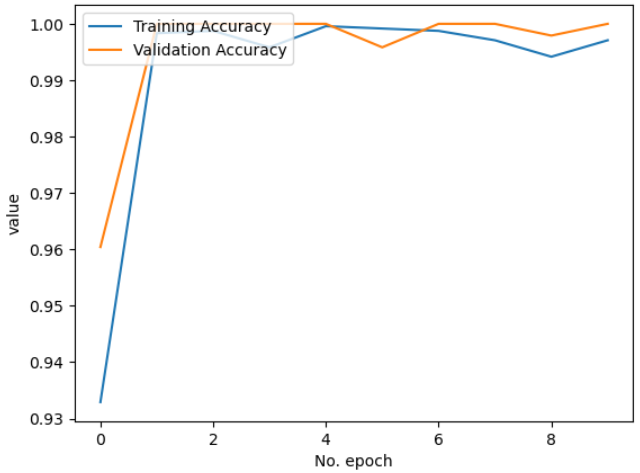
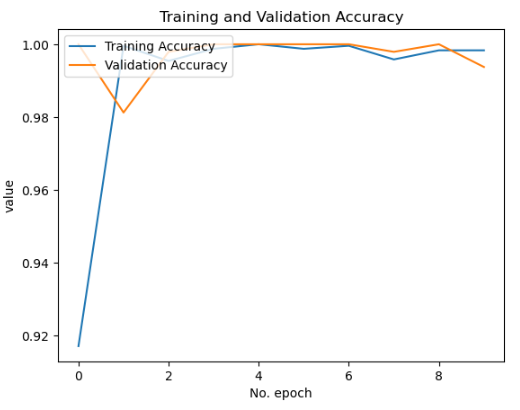
CUKUP UNTUK MALEM INI CAPEK

Changed region(s): [[0.0, 0.0, 1.0, 0.9951]]

diff --git a/Buku/bab/4-pengujian-analisis.tex b/Buku/bab/4-pengujian-analisis.tex
@@ -2,39 +2,41 @@
 
 % Ubah bagian-bagian berikut dengan isi dari pengujian dan analisis
 
-Pada bab ini dipaparkan hasil dan analisa dari pelaksanaan tiap tahap pada metodologi, skenario pengujian dan evaluasi pengujiannya. Pengujian dan evaluasi dilakukan guna mengetahui tingkat kesalahan dalam metodologi serta ananlisis untuk mencapai kesimpulan.Tahapan scenario pengujian meliputi hal berikut :
+Pada bab ini dipaparkan hasil dan analisa dari pelaksanaan skenario tahap  metodologi, skenario pengujian dan evaluasi pengujiannya. Pengujian dan evaluasi dilakukan guna mengetahui tingkat kesalahan dalam metodologi serta ananlisis untuk mencapai kesimpulan. Tahapan skenario yang dilaksanakan sebagai berikut :
 
-\begin{enumerate}
-  \item Pengujian akurasi model dalam beberapa situasi
-  \item Pengujian interaksi model pada beberapa responden
-  \item Pengujian pada robot dengan beberapa kondisi
-\end{enumerate}
-Dengan hasil metodologi serta pelaksanaan skenario-skenario pengujian yang dipaparkan pada bab Penelitian dan pembahasan, diharapkan mendapatkan hasil dan analisa sehingga dapatditarik kesimpulan dari pelaksanaan tugas akhir ini.
+% \begin{enumerate}
+%   \item Pengujian akurasi model dalam beberapa situasi
+%   \item Pengujian interaksi model pada beberapa responden
+%   \item Pengujian pada robot dengan beberapa kondisi
+% \end{enumerate}
+% Dengan hasil metodologi serta pelaksanaan skenario-skenario pengujian yang dipaparkan pada bab Penelitian dan pembahasan, diharapkan mendapatkan hasil dan analisa sehingga dapatditarik kesimpulan dari pelaksanaan tugas akhir ini.
 
-\section{Hasil metodologi}
-Pada metodologi terdapat blok diagaram sebagai acuan dalam Penelitian yang telah dilaksanakan. Adapun hasil dari blok diagram tersebut secara rinci sebagai berikut :
+% \section{Hasil metodologi}
+% Pada metodologi terdapat blok diagaram sebagai acuan dalam Penelitian yang telah dilaksanakan. Adapun hasil dari blok diagram tersebut secara rinci sebagai berikut :
 
-\subsection{Hasil dataset}
-Proses pengumpulan dataset dilakukan dengan pengambilan citra menggunakan kamera. Proses tersebut dilakukan selama beberapa waktu untuk dapat mendapatkan beberapa frame citra untuk suatu class dan diulang kembali dengan class yang berbeda sampai seluruh class terpenuhi. Seluruh citra tangan diambil dari satu orang yang sama dan menggunakan jarak pengambilan yang sama, yaitu jarak antara kamera dan tangan. Dalam proses pengambilan citra dilakukan beberapa variasi dalam pose tangan yaitu dengan sedikit merotasikan tangan dan sedikit melemaskan tangan. Hal ini dilakukan agar tiap class memiliki variasi pose dan dapat mendeteksi dari berbagai kondisi pose. Adapun pose yang digunakan sebagai dataset dapat dilihat pada Tabel \ref{tab:citradaset}.
+\section{Skenario Dataset}
 
 \begin{table}[H]
   \centering
   \caption{Citra hasil dataset}
   \label{tab:citradaset}
-  \begin{tabular}{|c|c|}
+  \begin{tabular}{|c|c|c|c|}
   \hline
-  Pose   & Citra \\ \hline
-  Diam   & \includegraphics[width=0.3\linewidth]{../Gambar/posediam.png} \\ \hline
+  Pose   & Citra & Pose   & Citra \\ \hline
+  Diam   & \includegraphics[width=0.3\linewidth]{../Gambar/posediam.png} &
   Kanan  & \includegraphics[width=0.3\linewidth]{../Gambar/posekanan.png} \\ \hline
-  Kiri   & \includegraphics[width=0.3\linewidth]{../Gambar/posekiri.png} \\ \hline
+  Kiri   & \includegraphics[width=0.3\linewidth]{../Gambar/posekiri.png} &
   Maju   & \includegraphics[width=0.3\linewidth]{../Gambar/posemaju.png} \\ \hline
-  Mundur & \includegraphics[width=0.3\linewidth]{../Gambar/posemundur.png} \\ \hline
+  Mundur & \includegraphics[width=0.3\linewidth]{../Gambar/posemundur.png} &
   Tembak & \includegraphics[width=0.3\linewidth]{../Gambar/posetembak.png} \\ \hline
 \end{tabular}
 \end{table}
 
+Proses pengumpulan dataset dilakukan dengan pengambilan citra menggunakan kamera. Proses tersebut dilakukan selama beberapa waktu untuk dapat mendapatkan beberapa frame citra untuk suatu class dan diulang kembali dengan class yang berbeda sampai seluruh class terpenuhi. Seluruh citra tangan diambil dari satu orang yang sama dan menggunakan jarak pengambilan yang sama, yaitu jarak antara kamera dan tangan. Dalam proses pengambilan citra dilakukan beberapa variasi dalam pose tangan yaitu dengan sedikit merotasikan tangan dan sedikit melemaskan tangan. Hal ini dilakukan agar tiap class memiliki variasi pose dan dapat mendeteksi dari berbagai kondisi pose. Adapun pose yang digunakan sebagai dataset dapat dilihat pada Tabel \ref{tab:citradaset}.
 
-\subsection{Hasil Pose \emph{Prediction}}
+
+
+\section{Skenario Pose \emph{Prediction}}
 
 \begin{figure}[H]
   \centering
@@ -67,8 +69,8 @@ Proses pose \emph{prediction} dilakukan dengan menggambar \emph{hand landmark} y
 
 
 
-\subsection{Hasil \emph{Classification}}
-Proses classification dimulai dari \emph{training} dataset. Sebelum melakukan \emph{training} maka dibutuhkannya data citra pada tiap class. Tiap class memiliki \emph{train data} dan \emph{validation data}. Data-data ini diambil dari proses sebelumnya yaitu citra yang telah melewati tahap hand localization. Citra untuk train data pada tiap class berjumlah 400 dengan rincian 200 citra posisi benar dan 200 citra posisi invers, sedangkan citra untuk \emph{validation data} berjumlah 80 citra dengan 40 citra posisi benar dan 40 citra posisi invers. Adapaun tabel pesebaran data citra tiap class dapat dilihat pada Tabel \ref{tab:tiapclass}. \emph{Training} ini menggunakan CNN dengan menggunakan satu layer \emph{convolution} ukuran 3x3 dengan filter 16, sehingga ukuran citra yang awalnya 256x128 turun menjadi 254x126 yang disebabkan dari adanya konvolusi. Selanjutnya dilakukan \emph{pooling} dengan menggunakan \emph{max} \emph{pooling} ukuran 2x2 yang menyebabkan ukuran citra turun menjadi setengah dari hasil konvolusi yaitu 167x63. Layer selanjutnya yaitu \emph{flatten} dimana citra hasil dari max pooling di ubah menjadi vektor. Output yang didapatkan dari layer \emph{flatten} yaitu 128016 vektor.  Setelah di tentukannya konfigurasi layer CNN maka tahapan selanjutnya yaitu konfigurasi hyperparameter. Adapun konfigurasi pada hyperparameter yang digunakan dapat dilihat pada Tabel \ref{fig:hyperparameter} berikut.
+\section{Seknario Klasifikasi}
+Proses klasifikasi dimulai dari \emph{training} dataset. Sebelum melakukan \emph{training} maka dibutuhkannya data citra pada tiap class. Tiap class memiliki \emph{train data} dan \emph{validation data}. Data-data ini diambil dari proses sebelumnya yaitu citra yang telah melewati tahap hand localization. Citra untuk train data pada tiap class berjumlah 400 dengan rincian 200 citra posisi benar dan 200 citra posisi invers, sedangkan citra untuk \emph{validation data} berjumlah 80 citra dengan 40 citra posisi benar dan 40 citra posisi invers. Adapaun tabel pesebaran data citra tiap class dapat dilihat pada Tabel \ref{tab:tiapclass}. \emph{Training} ini menggunakan CNN dengan menggunakan satu layer \emph{convolution} ukuran 3x3 dengan filter 16, sehingga ukuran citra yang awalnya 256x128 turun menjadi 254x126 yang disebabkan dari adanya konvolusi. Selanjutnya dilakukan \emph{pooling} dengan menggunakan \emph{max} \emph{pooling} ukuran 2x2 yang menyebabkan ukuran citra turun menjadi setengah dari hasil konvolusi yaitu 167x63. Layer selanjutnya yaitu \emph{flatten} dimana citra hasil dari max pooling di ubah menjadi vektor. Output yang didapatkan dari layer \emph{flatten} yaitu 128016 vektor.  Setelah di tentukannya konfigurasi layer CNN maka tahapan selanjutnya yaitu konfigurasi hyperparameter. Adapun konfigurasi pada hyperparameter yang digunakan dapat dilihat pada Tabel \ref{fig:hyperparameter} berikut. Citra yang digunakan sebagai data pada saat \emph{training} dan \emph{validation} berukuran 256x128 yang merupakan citra hasil ekstraksi fitur. Jumlah total dari image yang digunakan untuk \emph{training} berjumlah 2400 citra. 2400 citra tersebut tidak memungkingkan untuk langsung di \emph{training} pada sekali \emph{epoch} maka dari itu citra dibagi menjadi beberapa step per epoch dan \emph{batchsize}. Tiap step per epoch akan menggunakan 32 citra, jumlah step per epoch ini selanjutnya dipanggil sebagai \emph{batchsize}. Alasan penggunaan batchsize dengan nilai 32 untuk mengurangi beban pada laptop pada saat dilakukan \emph{training}. Tiap step per epoch menggunakan 32 citra maka dibutuhkan 75 step per epoch pada sekali \emph{epoch}, 75 step per epoch ini selanjutnya di sebut sebagai step per epoch.
 
 \begin{table}[H]
   \centering
@@ -93,7 +95,7 @@ Proses classification dimulai dari \emph{training} dataset. Sebelum melakukan \e
   \begin{tabular}{|c|c|lll}
   \cline{1-2}
   \emph{Hyperparameter} & Konfigurasi \\ \cline{1-2}
-  Epochs         & 20 \\ \cline{1-2}
+  Epochs         & 10 \\ \cline{1-2}
   Batchsize      & 32 \\ \cline{1-2}
   Image Size     & 256x128 \\ \cline{1-2}
   Step per epoch      & 75 \\ \cline{1-2}
@@ -101,7 +103,7 @@ Proses classification dimulai dari \emph{training} dataset. Sebelum melakukan \e
   \end{tabular}
 \end{table}
 
-Setelah proses konfigurasi layer CNN dan \emph{hyperparameter} telah dilakukan. Selanjutnya yaitu proses \emph{training} yaitu berupa model dan detail data pada tiap proses pengulangan. Hasil dari \emph{training} ini didapatkan \emph{training} \emph{accuracy}, \emph{validation} \emph{accuracy}, \emph{training} \emph{loss}, dan \emph{validation} \emph{loss}. Setiap perulangan mendapatkan nilai tersebut, grafik dari nilai tersebut dalam 20 perulangan dapat dilihat pada Gambar \ref*{fig:loss} dan Gambar \ref*{fig:akurasi}
+Setelah proses konfigurasi layer CNN dan \emph{hyperparameter} telah dilakukan. Selanjutnya yaitu proses \emph{training} yaitu berupa model dan detail data pada tiap proses pengulangan. Hasil dari \emph{training} ini didapatkan \emph{training} akurasi, \emph{validation} akurasi, \emph{training} \emph{loss}, dan \emph{validation} \emph{loss}. Setiap perulangan mendapatkan nilai tersebut, grafik dari nilai tersebut dalam 10 perulangan dapat dilihat pada Gambar \ref*{fig:loss} dan Gambar \ref*{fig:akurasi}. Dapat dilihat dari grafik \emph{training} akurasi bahwa pada epoch pertama nilai \emph{training} akurasi didapatkan 0.9 dan pada perulangan selanjutnya nilai akurasi stabil di angka 0.9. Pada grafik \emph{training loss} pada epoch pertama didapatkan nilai \emph{training loss} sebesar 0.2 dan semakin mengecil pada epoch selanjutnya. Pada epoch ke sepuluh didapatkan nilai \emph{training} akurasi 0.99 dan nilai \emph{training loss} 0.0036. 
 
 \begin{figure}[H]
   \centering
@@ -113,11 +115,11 @@ Setelah proses konfigurasi layer CNN dan \emph{hyperparameter} telah dilakukan. 
 \begin{figure}[H]
   \centering
   \includegraphics[width=0.7\linewidth]{../Gambar/akurasi.png}
-  \caption{Grafik \emph{training} dan \emph{validation} \emph{accuracy}}
+  \caption{Grafik \emph{training} dan \emph{validation} akurasi}
   \label{fig:akurasi}
 \end{figure}
 
-Setelah proses \emph{training} selesai dan telah didapatkan model dengan akurasi yang tinggi atau sesuai \emph{threshold} dalam hal ini dapat dilihat pada grafik akurasi pada Gambar \ref{fig:akurasi}, maka selanjutnya masuk kepada proses evaluasi model. Evaluasi model menggunakan \emph{confusion matrix} dengan data testing citra sebanyak 100 pada masing-masing class. Hasil dari \emph{confusion matrix} didapatkan akurasi 0.95. Hasil evaluasi dengan \emph{confusion matrix} secara lengkap dapat dilihat pada Gambar \ref{fig:confusionmatrix}. Model yang telah dievaluasi menggunakan \emph{confusion matrix} selanjutnya digunakan sebagai \emph{classification}. \emph{Classification} menghasilkan kode instruksi yang digunakan sebagai acuan dalam memberikan perintah kepada robot. Adapun kode instruksi yang diatur sebagai perintah kepada robot dapat dilihat pada Tabel \ref{tab:kodeinstruksi}
+Setelah proses \emph{training} selesai dan telah didapatkan model dengan akurasi yang tinggi atau sesuai \emph{threshold} dalam hal ini dapat dilihat pada grafik akurasi pada Gambar \ref{fig:akurasi}, maka selanjutnya masuk kepada proses evaluasi model. Evaluasi model menggunakan \emph{confusion matrix} dengan data testing citra sebanyak 100 pada masing-masing class. Hasil dari \emph{confusion matrix} didapatkan akurasi 0.99. Hasil evaluasi dengan \emph{confusion matrix} secara lengkap dapat dilihat pada Gambar \ref{fig:confusionmatrix}. Model yang telah dievaluasi menggunakan \emph{confusion matrix} selanjutnya digunakan sebagai klasifikasi. Klasifikasi menghasilkan kode instruksi yang digunakan sebagai acuan dalam memberikan perintah kepada robot. Adapun kode instruksi yang diatur sebagai perintah kepada robot dapat dilihat pada Tabel \ref{tab:kodeinstruksi}
 
 \begin{figure}[H]
   \centering
@@ -128,7 +130,7 @@ Setelah proses \emph{training} selesai dan telah didapatkan model dengan akurasi
 
 \begin{table}[H]
   \centering
-  \caption{Kode instruksi hasil \emph{classification}}
+  \caption{Kode instruksi hasil klasifikasi}
   \label{tab:kodeinstruksi}
   \begin{tabular}{|c|c|}
   \hline
@@ -142,8 +144,88 @@ Setelah proses \emph{training} selesai dan telah didapatkan model dengan akurasi
   \end{tabular}
 \end{table}
 
-\subsection{\emph{Control Navigation}}
-Proses \emph{control navigation} diawali dengan perancangan pada robot. Robot dirancang dengan memiliki kemampuan untuk bergerak dan menembak. Pergerakan robot dapat terjadi dikarenakan adanya sepasang roda yang dipasangkan pada robot. Perputaran roda diatur dari motor driver dengan menyalurkan listrik kepada motor dc yang sudah dipasangkan roda sebagai outputya. Kemampuan menembak pada robot diatur dengan adanya sensor \emph{infrared}. Sensor \emph{infrared transmitter} diletakkan didepan robot sedangakn sensor \emph{infrared receiver} membutuhkan empat yang diletakkan disekeliling sisi robot. Sensor infrared receiver akan di sambungkan secara pararel untuk ke empat sensornya dan dihubungkan kepada mikrokontroler dalam hal ini yang digunakan adalah "nodeMCU ESP8266". Secara schematic dapat dilihat pada Gambar \ref{fig:schematic}. Robot yang telah dirancang selanjutnya diuji dengan cara mengirimkan kode instruksiyang dihasilkan dari proses \emph{classification} kepada mikrokontroler robot. Pengujian ini dilakukan dengan mengklasifikasi 20 citra pada tiap class. Pengujian ini bertujuan untuk mengetahuiapakah ada data yang tidak terkirim atau hilang saat dikirim. Hasil dari klasifikasi akan dirubah menjadi kode instruksi dan dikirim kepada mikrokontroler. Pada mikrokontroler dihitung jumlah kode instruksi yang masuk dan dibandingkan dengan kode yang dikirim. Hasil pengujian ini dapat dilihat pada Tabel \ref{tab:hasulujipose}
+\section{Seknario Kontrol Navigasi}
+Proses kontrol navigasi diawali dengan perancangan komunikasiantara laptop dengan robot dan dilanjutkan perancangan pada robot. Komuniasi antara laptop dengan robot menggunakan \emph{web socket}. Robot dirancang dengan memiliki kemampuan untuk bergerak dan menembak.  Kebutuhan robot dengan adanya kemampuan bergerak dan menembak membutuhkan mikrokontroler untuk mengatur semua itu dan juga untuk koneksi secara \emph{wireless} dengan laptop. \emph{Mikrokontroller} yang digunakan yaitu "nodeMCU ESP8266" dengan alasan sudah memiliki modul \emph{WiFi} yang terpasang didalamnya dan juga memiliki kemampuan yang cukup untuk dapat mengontrol robot. Pergerakan robot dapat terjadi dikarenakan adanya sepasang roda yang dipasangkan pada robot. Untuk menggerakkan roda pada robot dibutuhkan motordc yang dipasangkan pada roda. Motordc yang digunakan berjumlah dua buah yang dipasangkan pada robot. Motordc dapat menggerakkan roda ketika dialiri oleh arus listrik. \emph{Mikrokontroller} tidak dapat secara langsung mengatur aliran listrik yang masuk kepada motordc, maka dari itu dibutuhkannya \emph{motor driver}. Arus listrik yang akan mengalir ke motor dc akan diatur oleh motor driver. Semakin kuat arus listrik yang mengalir ke motor dc maka akan semakin cepat perputaran roda yang mengakibatkan semakin cepat pergerakan dari robot. Kemampuan menembak pada robot diatur dengan adanya sensor \emph{infrared}. Sensor \emph{infrared transmitter} diletakkan di depan robot sedangkan sensor \emph{infrared receiver} membutuhkan empat yang diletakkan disekeliling sisi robot. Sensor \emph{infrared transmitter} diletakkan di depan dengan tujuan saat menembak, arah tembakan robot ke depan searah dengan robot. Saat menembak robot terlebih dahulu dan kemudian mengaktifkan sensor \emph{infrared transmitter} sebagai simbol dari menembak. Saat menembak sensor \emph{infrared transmitter} akan mengirimkan pesan dalam bentuk \emph{hexadecimal} dan pada masing-masing robot akan memiliki nilai \emph{hexadecimal} yang berbeda. Sensor \emph{infrared receiver} di sambungkan secara pararel untuk ke empat sensornya dan dihubungkan kepada mikrokontroler. Sensor \emph{infrared receiver} diletakkan disekeliling dengan tujuan robot dapat tertembak dari segala arah. Saat sensor \emph{infrared receiver} menerima tembakan maka akan dicek terlebih dahulu pesan \emph{hexadecimal} yang diterima. Pesan yang diterima oleh sensor \emph{infrared receiver} dan sesuai dengan pesan \emph{hexadecimal} dari yang dikirim robot maka pesan terbesut dikirim kepada laptop melalu koneksi internet. Secara schematic dapat dilihat pada Gambar \ref{fig:schematic}.
+
+\begin{figure}[H]
+  \centering
+  \includegraphics[width=0.5\linewidth]{../Gambar/schematic.png}
+  \caption{\emph{Schematic} robot}
+  \label{fig:schematic}
+\end{figure}
+
+\section{Seknario Pengujian Jarak Model}
+Pengujian ini menggunakan tangan peneliti dengan variasi jarak tangan terhadap kamera. Pengujian jarak dilakukan untuk mengetahui jarak ideal dari model. Jarak yang dimaksud merupakan jarak antara kamera dengan  kedua tangan. Ketinggian dari tangan sejajar dengan kamera dan telapak tangan menghadap kepada kamera. Pengujian jarak dilakukan dengan cara mengambil 20 citra dari tiap \emph{class} pada jarak tertentu. Jarak ini dimulai dari 40cm, 60cm, dan 100cm antara tangan dengan kamera. Pengujian dilakukan karena adanya perubahan bentuk dari \emph{hand landmark} yang dipengaruhi oleh jarak. Hasil pose yang terdeteksi dari pengujian jarak dapat dilihat pada Tabel \ref{tab:hasiljarak} dan hasil confusion matrix dari masing-masing jarak dapat dilihat pada Gambar \ref{fig:confusionmatrixjarak}. Dari hasil pengujian didapatkan nilai akurasi tertinggi pada jarak 40 cm dan pada jarak 60cm didapatkan nilai 0.99, namun pada jarak 80cm dan 100cm akurasi menurun menjadi 0.92. Jarak 40cm dan 60cm memiliki akurasi tinggi dikarenakan jarak tersebut sama dengan jarak saat pengambilan dataset.
+
+\begin{figure}[H]
+    \begin{tabular}{cc}
+      \includegraphics[width=0.5\linewidth]{../Gambar/cm30.png} & \includegraphics[width=0.5\linewidth]{../Gambar/cm50.png} \\
+      a. Jarak 40cm & b. Jarak 60cm \\ 
+      \includegraphics[width=0.5\linewidth]{../Gambar/cm80.png} & \includegraphics[width=0.5\linewidth]{../Gambar/cm100.png} \\
+      c. Jarak 80cm & d. Jarak 100cm
+    \end{tabular}
+    \centering
+    \caption{Pengujian \emph{Confussion Matrix} pada jarak tertentu}
+    \label{fig:confusionmatrixjarak}
+\end{figure}
+
+\begin{table}[H]
+  \centering
+  \caption{Pose yang terdeteksi dari pengujian jarak}
+  \label{tab:hasiljarak}
+  \begin{tabular}{|c|clll|}
+    \hline
+    \multirow{2}{*}{Pose} & \multicolumn{4}{c|}{Jarak (cm)}                                                   \\ \cline{2-5} 
+                          & \multicolumn{1}{l|}{40} & \multicolumn{1}{l|}{60} & \multicolumn{1}{l|}{80} & 100 \\ \hline
+    Diam                  & \multicolumn{1}{c|}{20}   & \multicolumn{1}{l|}{19}   & \multicolumn{1}{l|}{20}   &   20  \\ \hline
+    Kanan                 & \multicolumn{1}{c|}{20}   & \multicolumn{1}{l|}{20}   & \multicolumn{1}{l|}{10}   &   10  \\ \hline
+    Kiri                  & \multicolumn{1}{c|}{20}   & \multicolumn{1}{l|}{20}   & \multicolumn{1}{l|}{20}   &   20  \\ \hline
+    Maju                  & \multicolumn{1}{c|}{20}   & \multicolumn{1}{l|}{20}   & \multicolumn{1}{l|}{20}   &   20  \\ \hline
+    Mundur                & \multicolumn{1}{c|}{20}   & \multicolumn{1}{l|}{20}   & \multicolumn{1}{l|}{20}   &   20  \\ \hline
+    Tembak                & \multicolumn{1}{c|}{20}   & \multicolumn{1}{l|}{20}   & \multicolumn{1}{l|}{20}   &   20  \\ \hline
+    Akurasi                  & \multicolumn{1}{c|}{1}   & \multicolumn{1}{l|}{0.99}   & \multicolumn{1}{l|}{0.92}   &   0.92  \\ \hline
+  \end{tabular}
+\end{table}
+
+
+\section{Skenario Uji Pengaruh Sudut Kamera (DATA BELUM ADA)}
+Pengujian sudut kamera dilakukan menggunakan tangan peniliti dengan jarak uji 40cm dari kamera dan bergeser 40cm dari kamera. Terdapat empat sudut yang akan diujikan yaitu kanan, kiri, bawah, dan atas. Pengujian ini dilakukan untuk mengatahui kemampuan model terhadap variasi posisi tangan yang tidak tepat didepan kamera, karena dataset yang digunakan tangan tepat berada didepan kamera. Data testing yang akan digunakan berjumlah 20 citra tiap \emph{class}. Hasil dari pengujian pengaruh sudut kamera terhadap model dapat dilihat pada Tabel
+
+\begin{table}[H]
+  \centering
+  \caption{Pose yang terdeteksi dari pengujian sudut kamera}
+  \label{tab:hasilsudut}
+  \begin{tabular}{|c|clll|}
+    \hline
+    \multirow{2}{*}{Pose} & \multicolumn{4}{c|}{Posisi} \\ \cline{2-5} 
+      & \multicolumn{1}{l|}{Kanan} & \multicolumn{1}{l|}{Kiri} & \multicolumn{1}{l|}{Atas} & Bawah \\ \hline
+    Diam                  & \multicolumn{1}{c|}{20}   & \multicolumn{1}{l|}{19}   & \multicolumn{1}{l|}{20}   &   20  \\ \hline
+    Kanan                 & \multicolumn{1}{c|}{20}   & \multicolumn{1}{l|}{20}   & \multicolumn{1}{l|}{10}   &   10  \\ \hline
+    Kiri                  & \multicolumn{1}{c|}{20}   & \multicolumn{1}{l|}{20}   & \multicolumn{1}{l|}{20}   &   20  \\ \hline
+    Maju                  & \multicolumn{1}{c|}{20}   & \multicolumn{1}{l|}{20}   & \multicolumn{1}{l|}{20}   &   20  \\ \hline
+    Mundur                & \multicolumn{1}{c|}{20}   & \multicolumn{1}{l|}{20}   & \multicolumn{1}{l|}{20}   &   20  \\ \hline
+    Tembak                & \multicolumn{1}{c|}{20}   & \multicolumn{1}{l|}{20}   & \multicolumn{1}{l|}{20}   &   20  \\ \hline
+    Akurasi                  & \multicolumn{1}{c|}{1}   & \multicolumn{1}{l|}{0.99}   & \multicolumn{1}{l|}{0.92}   &   0.92  \\ \hline
+  \end{tabular}
+\end{table}
+
+\begin{figure}[H]
+    \begin{tabular}{cccc}
+      \includegraphics[width=0.4\linewidth]{../Gambar/cm30.png} & \includegraphics[width=0.4\linewidth]{../Gambar/cm50.png} \\
+      a. Jarak 40cm & b. Jarak 60cm \\ 
+      \includegraphics[width=0.4\linewidth]{../Gambar/cm80.png} & \includegraphics[width=0.4\linewidth]{../Gambar/cm100.png} \\
+      c. Jarak 80cm & d. Jarak 100cm
+    \end{tabular}
+    \centering
+    \caption{Pengujian \emph{Confussion Matrix} pada jarak tertentu}
+    \label{fig:cmsudut}
+\end{figure}
+
+\section{Skenario Uji Pengaruh Instensitas Cahaya}
+
+
+\section{Skenario Uji Jarak Komunikasi (DATA KURANG)}
+Robot yang telah dirancang selanjutnya diuji dengan cara mengirimkan kode instruksiyang dihasilkan dari proses klasifikasi kepada mikrokontroler robot. Pengujian ini dilakukan dengan mengklasifikasi 20 citra pada tiap \emph{class}. Pengujian ini bertujuan untuk mengetahuiapakah ada data yang tidak terkirim atau hilang saat dikirim. Hasil dari klasifikasi akan dirubah menjadi kode instruksi dan dikirim kepada mikrokontroler. Pada mikrokontroler dihitung jumlah kode instruksi yang masuk dan dibandingkan dengan kode yang dikirim. Hasil pengujian ini dapat dilihat pada Tabel \ref{tab:hasulujipose}
 
 \begin{table}[H]
   \centering
@@ -161,53 +243,6 @@ Proses \emph{control navigation} diawali dengan perancangan pada robot. Robot di
   \end{tabular}
 \end{table}
 
-\begin{figure}[H]
-  \centering
-  \includegraphics[width=0.5\linewidth]{../Gambar/schematic.png}
-  \caption{\emph{Schematic} robot}
-  \label{fig:schematic}
-\end{figure}
-
-\section{Skenario pengujian}
-Pada skenario pengujian dilakukan beberapa skenario pengujian untuk mengetahui tingkat kesalahan dan membuka potensi pengembangan penelitian serta menarik kesimpulan secara keseluruhan. Skenario pegujian yang dilakukan yaitu sebagai berikut :
-\subsection{Pengujian akurasi model}
-Pengujian akurasi model bertujuan untuk membandingkan akurasi model dalam beberapa situasi uji guna mengetahui situasi ideal untuk melakukan classification. Pengujian ini menggunakan tangan peneliti dengan variasi jarak tangan terhadap kamera, intensitas cahaya ruangan, dan sudut kamera terhadap tangan. Hasil dari pengujian tersebut secara spesifik sebagai berikut :
-\begin{enumerate}
-  \item Pengujian jarak \\
-  Pengujian jarak dilakukan dengan cara mengambil 20 citra dari tiap \emph{class} pada jarak tertentu. Jarak ini dimulai dari 30cm, 50cm, dan 100cm antara tangan dengan kamera. Pengujian dilakukan karena adanya perubahan bentuk dari \emph{hand landmark}. Hasil pose yang terdeteksi dari pengujian jarak dapat dilihat pada Tabel \ref{tab:hasiljarak}
-
-  \begin{table}[H]
-    \centering
-    \caption{Pose yang terdeteksi dari pengujian jarak}
-    \label{tab:hasiljarak}
-    \begin{tabular}{|c|clll|}
-      \hline
-      \multirow{2}{*}{Pose} & \multicolumn{4}{c|}{Jarak (cm)}                                                   \\ \cline{2-5} 
-                            & \multicolumn{1}{l|}{30} & \multicolumn{1}{l|}{50} & \multicolumn{1}{l|}{80} & 100 \\ \hline
-      Diam                  & \multicolumn{1}{c|}{20}   & \multicolumn{1}{l|}{19}   & \multicolumn{1}{l|}{20}   &   20  \\ \hline
-      Kanan                 & \multicolumn{1}{c|}{20}   & \multicolumn{1}{l|}{20}   & \multicolumn{1}{l|}{16}   &   10  \\ \hline
-      Kiri                  & \multicolumn{1}{c|}{18}   & \multicolumn{1}{l|}{20}   & \multicolumn{1}{l|}{20}   &   20  \\ \hline
-      Maju                  & \multicolumn{1}{c|}{16}   & \multicolumn{1}{l|}{20}   & \multicolumn{1}{l|}{20}   &   20  \\ \hline
-      Mundur                & \multicolumn{1}{c|}{20}   & \multicolumn{1}{l|}{20}   & \multicolumn{1}{l|}{20}   &   20  \\ \hline
-      Tembak                & \multicolumn{1}{c|}{20}   & \multicolumn{1}{l|}{20}   & \multicolumn{1}{l|}{15}   &   10  \\ \hline
-      Akurasi                  & \multicolumn{1}{c|}{0.95}   & \multicolumn{1}{l|}{0.99}   & \multicolumn{1}{l|}{0.93}   &   0.83  \\ \hline
-    \end{tabular}
-  \end{table}
-
-  \begin{figure}[H]
-      \begin{tabular}{cccc}
-        \includegraphics[width=0.4\linewidth]{../Gambar/cm30.png} & \includegraphics[width=0.4\linewidth]{../Gambar/cm50.png} \\
-        a. Jarak 30cm & b. Jarak 50cm \\ 
-        \includegraphics[width=0.4\linewidth]{../Gambar/cm80.png} & \includegraphics[width=0.4\linewidth]{../Gambar/cm100.png} \\
-        c. Jarak 80cm & d. Jarak 100cm
-      \end{tabular}
-      \centering
-      \caption{Pengujian \emph{Confussion Matrix} pada jarak tertentu}
-      \label{fig:confusionmatrixjarak}
-  \end{figure}
-  
-
   % \item Pengujian intensitas cahaya \\
   % Pengujian intensitas cahaya 
   % \item Pengujian sudut kamera \\
-\end{enumerate}

diff --git a/Buku/bab/3-desain-implementasi.tex b/Buku/bab/3-desain-implementasi.tex
@@ -3,11 +3,11 @@
 
 % Ubah bagian-bagian berikut dengan isi dari desain dan implementasi
 
-Tugas akhir ini merupakan peelitian pada bidang visi computer yang bertujuan untuk mengendalikan robot menggunakan metode \emph{classification} CNN. Secara umum metode yang digunakan adalah pertama pembuatan dataset, prediksi pose tangan, \emph{classification} menggunakan model CNN, dan terakhir navigasi control pada robot. Alur metodologi dapat dilihat pada
+Tugas akhir ini merupakan peelitian pada bidang visi computer yang bertujuan untuk mengendalikan robot menggunakan metode klasifikasi CNN. Secara umum metode yang digunakan adalah pertama pembuatan dataset, prediksi pose tangan, klasifikasi menggunakan model CNN, dan terakhir navigasi control pada robot. Alur metodologi dapat dilihat pada
 
 \begin{figure}[!h]
   \centering
-	\includegraphics[width=1\linewidth]{gambar/metodologi.png}
+	\includegraphics[width=1\linewidth]{../Gambar/metodologi.png}
 	\caption{Blok diagram metodologi}
 	\label{fig:metodologi}
 \end{figure}
@@ -17,11 +17,17 @@ Tugas akhir ini merupakan peelitian pada bidang visi computer yang bertujuan unt
 
 Tahapan pengambilan dataset dilakukan dengan mengambilan data-data berupa citra menggunakan kamera pada laptop. Kamera pada laptop dipakai untuk mendapatkan citra yang nantinya digunakan untuk mendeteksi suatu pose atau gestur tangan membutuhkan citra tangan untuk menemukan bagian tangan. Proses pengumpulan citra pose tangan yang digunakan sebagai navigasi robot  dimulai dengan menentukan jumlah kelas dataset. Kelas dataset berjumlah enam pose yang terdiri dari perintah maju, mundur, diam, belok kiri, belok kanan,dan tembak. Setiap pose membutuhkan dua tangan untuk memberikan perintah dengan telapak tangan dihadapkan ke arah kamera. Pose untuk perintah maju dilambangkan dengan kedua tangan mengepal. Pose mundur dilambangkan dengan meluruskan jari manis dan jari tengah seperti halnya pose angka dua pada SIBI pada kedua tangan dan telapak tangan.  Pose diam dilambangkan dengan membuka telapak tangan atau meluruskan semua jari pada kedua tangan.  Pose belok kiri dilambangkan dengan membuka telapak tangan pada tangan kiri dan mengepalkan tangan pada tangan kanan. Pose belok kanan merupakan kebalikan dari pose belok kiri yang dilambangkan dengan tangan kiri mengepal dan tangan kanan membuka telapak tangan. Pose tembak dilambangkan dengan meluruskan ibu jari dan jari manis sedangkan jari lain dikepalkan dengan jari manis diarahkan ke atas dan telapak tangan menghadap ke kamera.
 
-\section{\emph{Pose prediction}}
+\section{Estimasi Pose}
+Pada tahapan ini akan dilakukan deteksi tangan dan ekstraksi fitur. Deteksi tangan akan menggunakan bantuan bantuan \emph{framework Mediapipe}. \emph{Framework Mediapipe} ini memiliki 21 titik  \emph{keypoint} pada tangan. Proses mendeteksi tangan dimulai dengan cara mencari telapak tangan yang terdapat titik nol \emph{keypoint} yang disebut sebagai palm detection model. Setelah titik nol terdeteksi atau telapak tangan ditemukan kemudian mencari 20 titik lainnya pada tangan. Titik-titik \emph{keypoint} ini dicari menggunakan regresi. Setelah 21 titik \emph{keypoint} terdeteksi selanjutnya menyimpan koordinat x dan y relatif terhadap layar yang serta menghubungkan 21 titik tersebut sehingga membentuk \emph{hand landmark} seperti pada Gambar \ref{fig:tangan}. Selanjutnya dilakukan ekstraksi fitur dari \emph{hand landmark} yang telah dibuat. Ekstraksi fitur dilakukan untuk mengurangi \emph{noise} yang terdapat pada citra dataset. Ekstraksi fitur dilakukan dengan menggambar ulang citra \emph{hand landmark} yang telah dibuat oleh \emph{Mediapipe} kedalam citra dengan latar gelap yang selanjutnya akan disebut sebagai citra ekstrasi fitur. Setelah \emph{hand landmark} digambar ulang pada citra dengan latar belakang gelap maka selanjutnya \emph{hand landmark} tiap tangan yang terdeteksi memiliki nilai-nilai koordinat pada tiap \emph{hand landmark}, dari koordinat ini dicari nilai terkecil dan nilai terbesar.  Nilai-nilai ini digunakan untuk membuat \emph{bounding box} pada setiap frame yang terdeteksi tangan didalamnya seperti pada Gambar \ref{fig:boundingbox}. Setiap frame memiliki dua \emph{bounding box} dikarenakan harus terdapat dua tangan untuk bisa mengontrol robot. \emph{Bounding box} dibuat pada citra ekstraksi fitur dengan tujuan untuk menormalisasi posisi. Normalisasi posisi dilakukan dengan hanya menyimpan citra didalam bounding box dengan cara membuang citra diluar bounding box. Setelah citra yang tersisa hanya didalam bounding box, selanjunya kedua bounding box tersebut akan di susun secara horizontal. Penyusunan ini dikarenakan pada citra ekstraksi fitur terdapat 2 \emph{hand landmark}. Setelah disusun citra ekstraksi akan disimpan sebagai data pada saat klasifikasi.
 
-Tangan yang terangkap kamera terdeteksi dengan bantuan framework Mediapipe. Framework Mediapipe ini memiliki 21 titik  \emph{keypoint} pada tangan. Proses mendeteksi tangan dimulai dengan cara mencari telapak tangan yang terdapat titik nol \emph{keypoint} yang disebut sebagai palm detection model. Setelah titik nol terdeteksi atau telapak tangan ditemukan kemudian mencari 20 titik lainnya pada tangan. Titik-titik \emph{keypoint} ini dicari menggunakan regresi. Setelah 21 titik \emph{keypoint} terdeteksi selanjutnya menyimpan koordinat x dan y dari yang relatif terhadap layar yang serta menghubungkan 21 titik tersebut sehingga membentuk \emph{hand landmark}. Rangka tiap tangan yang terdeteksi memiliki nilai-nilai koordinat pada tiap \emph{keypoint}, dari koordinat ini dicari nilai terkecil dan nilai terbesar.  Nilai-nilai ini nantinya digunakan untuk membuat bounding box pada setiap frame yang terdeteksi tangan didalamnya. Setiap frame memiliki dua bounding box dikarenakan harus terdapat dua tangan untuk bisa menavigasi robot. Bounding box ini digunakan untuk melakukan hand lokalisasi yang bertujuan untuk menormalisasi variasi posisi dari \emph{hand landmark} yang telah dibuat oleh Mediapipe. Hand lokalisasi ini nantinya membuang bagian citra diluar bounding box dan menyatukan kedua tangan setelahnya. Hasil dari hand lokalisasi nantinya disimpan pada suatu folder pada setiap class. Setelah seluruh data pada setiap class terpenuhi maka dilanjutkan tahapan selanjutnya yaitu \emph{training} dan \emph{classification}.
+\begin{figure}
+  \centering
+  \includegraphics[width=0.5\linewidth]{../Gambar/boundingbox.png}
+  \caption{\emph{Bounding Box}}
+  \label{fig:boundingbox}
+\end{figure}
 
-\section{\emph{Classification}}
+\section{Klasifikasi}
 
 \begin{figure}[!h]
   \centering
@@ -30,7 +36,7 @@ Tangan yang terangkap kamera terdeteksi dengan bantuan framework Mediapipe. Fram
   \label{fig:layerCNn}
 \end{figure}
 
-Sebelum dilakukannya \emph{classification} dilakukan \emph{training} data terlebih dahulu. \emph{Training} data merupakan tahapan dari dataset yang telah dibuat yang kemudian dilatih untuk memperoleh suatu pola dari data tersebut. Pola tersebut digunakan untuk membantu mengenali objek dalam citra. Dalam proses \emph{training} dibutuhkan konfigurasi yang digunakan. Konfigurasi \emph{training} yang digunakan yaitu CNN dengan layer \emph{layer convolution}, \emph{layer max pooling},  dan flatten seperti yang ditampilkan pada Gambar \ref*{fig:layerCNn}. Adapun layer-layer tersebut membutuhkan konfigurasi seperti berikut :
+Sebelum dilakukannya klasifikasi dilakukan \emph{training} data terlebih dahulu. \emph{Training} data merupakan tahapan dari dataset yang telah dibuat yang kemudian dilatih untuk memperoleh suatu pola dari data tersebut. Pola tersebut digunakan untuk membantu mengenali objek dalam citra. Dalam proses \emph{training} dibutuhkan konfigurasi yang digunakan. Konfigurasi \emph{training} yang digunakan yaitu CNN dengan layer \emph{layer convolution}, \emph{layer max pooling},  dan flatten seperti yang ditampilkan pada Gambar \ref*{fig:layerCNn}. Adapun layer-layer tersebut membutuhkan konfigurasi seperti berikut :
 \begin{enumerate}
   \item \emph{Convolution Layer}. \emph{Convolution layer} merupakan layer pertama dalam CNN yang melakukan proses konvolusi pada data citra untuk mengekstraksi fitur dari citra input sesuai dengan banyaknya filter yang digunakan \parencite{konvolusilayer}. 
   \item \emph{Pooling Layer}. \emph{Pooling layer} merupakan metode \emph{down-sumpling} yang bertujuan untuk mengurangi kompleksitas pada \emph{layer} selanjutnya. Pada penelitian ini akan dilakukan dengan metode max pooling yaitu mengambil nilai maksimal dari data citra dan bergerak dengan pergeseran \emph{layer} \parencite{poolilayer}.
@@ -43,11 +49,11 @@ Sebelum dilakukan proses \emph{train} menggunakan CNN, perlu dilakukan beberapa 
   \item \emph{Image Size}. \emph{Image Size} adalah ukuran dari citra dari dataset. Semakin besar suatu ukuran citra maka semakin lama waktu yang dibutuhkan untuk training semakin lama.
   \item \emph{Optimizer}. \emph{Optimizer} merupakan metode yang digunakan untuk meminimalisir eror. \emph{Optimizer} merupakan fungsi matematika yang bergantung pada parameter model yang dapat dipelajari seperti weight dan bias. \emph{Optimizer} berguna untuk mengetahui cara memodifikasi weight dan learning rate untuk mengurangi loss \parencite{optimizer}.
 \end{enumerate} 
-Setelah dilakukan proses \emph{validation} dan model yang telah dibuat memiliki akurasi yang tinggi (sesuai dengan \emph{threshold}), maka tahapan selanjutnya yaitu \emph{classification}. Tahap \emph{classification} dilakukan testing menggunakan citra baru lalu dideteksi pose dalam citra tersebut. Citra yang posenya telah diketahui selanjutnya diterjemahkan menjadi kode instruksi yang aka menjadi acuan dalam memberikan perintah kepada robot.
+Setelah dilakukan proses \emph{validation} dan model yang telah dibuat memiliki akurasi yang tinggi (sesuai dengan \emph{threshold}), maka tahapan selanjutnya yaitu klasifikasi. Tahap klasifikasi dilakukan dengan menginputkan dataset baru melalu kamera. Model yang telah dibuat akan menerima citra dataset serta dikenali posenya. Pose yang posenya telah diketahui selanjutnya diterjemahkan menjadi kode instruksi yang menjadi acuan dalam memberikan perintah kepada robot.
 
 
-\section{\emph{Control navigation}} 
-Tahapan ini berupa cara mengontrol robot menggunakan kode intruksi dari hasil \emph{classification}. Laptop dengan robot terhubung secara \emph{wireless} menggunakan koneksi internet. Hasil \emph{classification} dari laptop dikirimkan kepada robot menggunakan jaringan web socket, dimana laptop dan robot terhubung dalam suatu port dan ip yang telah ditentukan. Robot dapat dikontrol sesuai dari banyaknya \emph{class} pada model yang telah dibuat dalam hal ini terdapat enam \emph{class}. Aksi dari robot ini sesuai dari data yang diterima dari hasil \emph{classification} yakni maju, mundur, kanan, kiri, diam, dan tembak. Tiap-tiap aksi diwakilkan dengan huruf abjad tertentu. Sesuai dengan aksi-aksi tersebut maka robotPergerakan robot dapat terjadi dikarenakan adanya sepasang roda yang dipasangkan pada robot. Perputaran roda diatur dari motor driver dengan menyalurkan listrik kepada motor dc yang sudah dipasangkan roda sebagai outputya. Kemampuan robot untuk tembak menembak menggunakan bantuan \emph{infrared}. Tiap robot nantinya memiliki \emph{infrared} \emph{transmitter} dan \emph{infrared} \emph{receiver} yang diletakkan disekeliling robot. Aksi menembak dimulai dari \emph{infrared} \emph{transmitter} mengirimkan pesan dan nantinya diterima oleh \emph{infrared} \emph{receiver}. Rancangan desain robot dapat dilihat pada Gambar \ref{fig:rancanganrobot}
+\section{Kontrol Navigasi} 
+Tahapan ini berupa cara mengontrol robot menggunakan kode intruksi dari hasil klasifikasi. Laptop dengan robot terhubung secara \emph{wireless} menggunakan koneksi internet. Hasil klasifikasi dari laptop dikirimkan kepada robot menggunakan jaringan Websocket, dimana laptop dan robot terhubung dalam suatu port dan ip yang telah ditentukan. Websocket merupakan protokol pada \emph{layer} aplikasi dalam \emph{osi layer}. Pada Websocket memungkingkan koneksi dua arah antara client dan server dengan membangun satu buah jalur komunikasi \parencite{websocket}. Perancangan pada robot dibuat dengan kemampuan yang dapat dilakukan oleh robot. Kebutuhan pada kemampuan robot yaitu menggerakkan seluruh badan robot dan menembak serta komunikasi dengan internet. Robot dapat dikontrol sesuai dari banyaknya \emph{class} pada model yang telah dibuat dalam hal ini terdapat enam \emph{class}. Aksi dari robot ini sesuai dari data yang diterima dari hasil klasifikasi yakni maju, mundur, kanan, kiri, diam, dan tembak. Tiap-tiap aksi diwakilkan dengan huruf abjad tertentu. Sesuai dengan aksi-aksi tersebut maka pergerakan robot dapat terjadi dikarenakan adanya sepasang roda yang dipasangkan pada robot. Perputaran roda diatur dari motor driver dengan menyalurkan listrik kepada motor dc yang sudah dipasangkan roda sebagai outputya. Kemampuan robot untuk tembak menembak menggunakan bantuan \emph{infrared}. Tiap robot memiliki \emph{infrared} \emph{transmitter} dan \emph{infrared} \emph{receiver} yang diletakkan disekeliling robot. Aksi menembak dimulai dari \emph{infrared} \emph{transmitter} mengirimkan pesan dan diterima oleh \emph{infrared} \emph{receiver}. Rancangan desain robot dapat dilihat pada Gambar \ref{fig:rancanganrobot}
 
 \begin{figure}[!h]
   \centering

diff --git a/Buku/bab/2-tinjauan-pustaka.tex b/Buku/bab/2-tinjauan-pustaka.tex
@@ -15,11 +15,11 @@ Mobile Robot merupaka salah satu jenis robot yang dapat berpindah posisi dari sa
 \subsection{Estimasi Pose Tangan}
 \begin{figure}[!h]
   \centering
-	\includegraphics[width=0.7\linewidth]{../Gambar/hand_landmarks.png}
-	\caption{Dua puluh satu titik \textit{keypoint} pada tangan \parencite{mediapipe}}
+	\includegraphics[width=0.5\linewidth]{../Gambar/Handlandmark.png}
+	\caption{Dua puluh satu titik \textit{hand landmark} pada tangan}
 	\label{fig:tangan}
 \end{figure}
-Pengenalan gestur atau pose tangan merupakan topik yang menarik dalam ilmu komputer dan teknologi yang betujuan untuk komunikasi antara manusia dengan komputer menggunakan gestur tanpa menyentuhnya secara langsung. Saat ini banyak \textit{framework} atau \textit{library} pembelajaran mesin untuk mengenali gerakan tangan, salah satu yaitu \textit{Mediapipe}. \textit{Mediapipe} merupakan suatu framework yang dirancang oleh Google untuk menghasilkan audio atau video dari membangun \textit{pipelines} untuk mengolah data persepsi. Dengan bantuan dari \textit{Mediapipe} tangan yang terdapat pada citra akan dapat dideteksi dengan mendeteksi dua puluh satu titik pada tangan yang ditunjukkan oleh Gambar \ref*{fig:tangan}. Proses pertama yaitu akan mendeteksi telapak tangan atau disebut \textit{palm detection} agar program dapat mendeteksi keberadaan tangan. Selanjutnya yaitu mendeteksi dua puluh titik \textit{keypoint} dalam tangan yang sudah terdeteksi \parencite{UniversitasDinamika}. 
+Pengenalan gestur atau pose tangan merupakan topik yang menarik dalam ilmu komputer dan teknologi yang betujuan untuk komunikasi antara manusia dengan komputer menggunakan gestur tanpa menyentuhnya secara langsung \parencite{UniversitasDinamika}. Saat ini banyak \textit{framework} atau \textit{library} pembelajaran mesin untuk mengenali gerakan tangan, salah satu yaitu \textit{Mediapipe}. \textit{Mediapipe} merupakan suatu framework yang dirancang oleh Google untuk menghasilkan audio atau video dari membangun \textit{pipelines} untuk mengolah data persepsi. Dengan bantuan dari \textit{Mediapipe} tangan yang terdapat pada citra akan dapat dideteksi dengan mendeteksi dua puluh satu titik pada tangan yang ditunjukkan oleh Gambar \ref*{fig:tangan}. Proses pertama yaitu akan mendeteksi telapak tangan atau disebut \textit{palm detection} agar program dapat mendeteksi keberadaan tangan. Selanjutnya yaitu mendeteksi dua puluh titik \textit{keypoint} dalam tangan yang sudah terdeteksi \parencite{mediapipejurnal}. 
 
 
 \subsection{\textit{Convolutional Neural Network} (CNN)}

diff --git a/Buku/bab/1-pendahuluan.tex b/Buku/bab/1-pendahuluan.tex
@@ -36,7 +36,7 @@ Pada pembuatan Tugas Akhir ini, pembahasan penelitian akan dibatasi beberapa hal
 \section{Tujuan}
 
 % Ubah paragraf berikut sesuai dengan tujuan penelitian dari tugas akhir
-Tujuan yang ingin dicapai dari Tugas Akhir ini adalah membuat kendali robot berbasis pose tangan menggunakan \textit{Convolutional Neural Network} yang memberikan pengalaman lebih interaktif saat digunakan dengan akurasi yang tinggi.
+Tujuan yang ingin dicapai dari Tugas Akhir ini adalah membuat kendali robot berbasis pose tangan menggunakan \textit{Convolutional Neural Network}.
 
 % Berdasarkan rumusan permasalahan yang ada pada subbab 1.2, maka dibuatlah tujuan Kendali \textit{mobile robot} berbasis gestur tangan menggunakan \textit{Convolutional Neural Network} dengan harapan dapat memberikan opsi lain dalam mengontrol robot dan pengalaman yang lebih interaktif.
 % \begin{enumerate}

diff --git a/Buku/lainnya/biografi-penulis.tex b/Buku/lainnya/biografi-penulis.tex
@@ -11,7 +11,7 @@
   \centering
   \vspace{-3ex}
   % Ubah file gambar berikut dengan file foto dari mahasiswa
-  \includegraphics[width=0.3\textwidth]{gambar/alfan.jpg}
+  \includegraphics[width=0.3\textwidth]{../Gambar/alfan.jpg}
   \vspace{-4ex}
 \end{wrapfigure}
 

diff --git a/Buku/main.tex b/Buku/main.tex
@@ -221,8 +221,8 @@
 \cleardoublepage
 
 % Bab 5 penutup
-% \input{bab/5-penutup.tex}
-% \cleardoublepage
+\input{bab/5-penutup.tex}
+\cleardoublepage
 
 \chapter*{DAFTAR PUSTAKA}
 \addcontentsline{toc}{chapter}{DAFTAR PUSTAKA}
